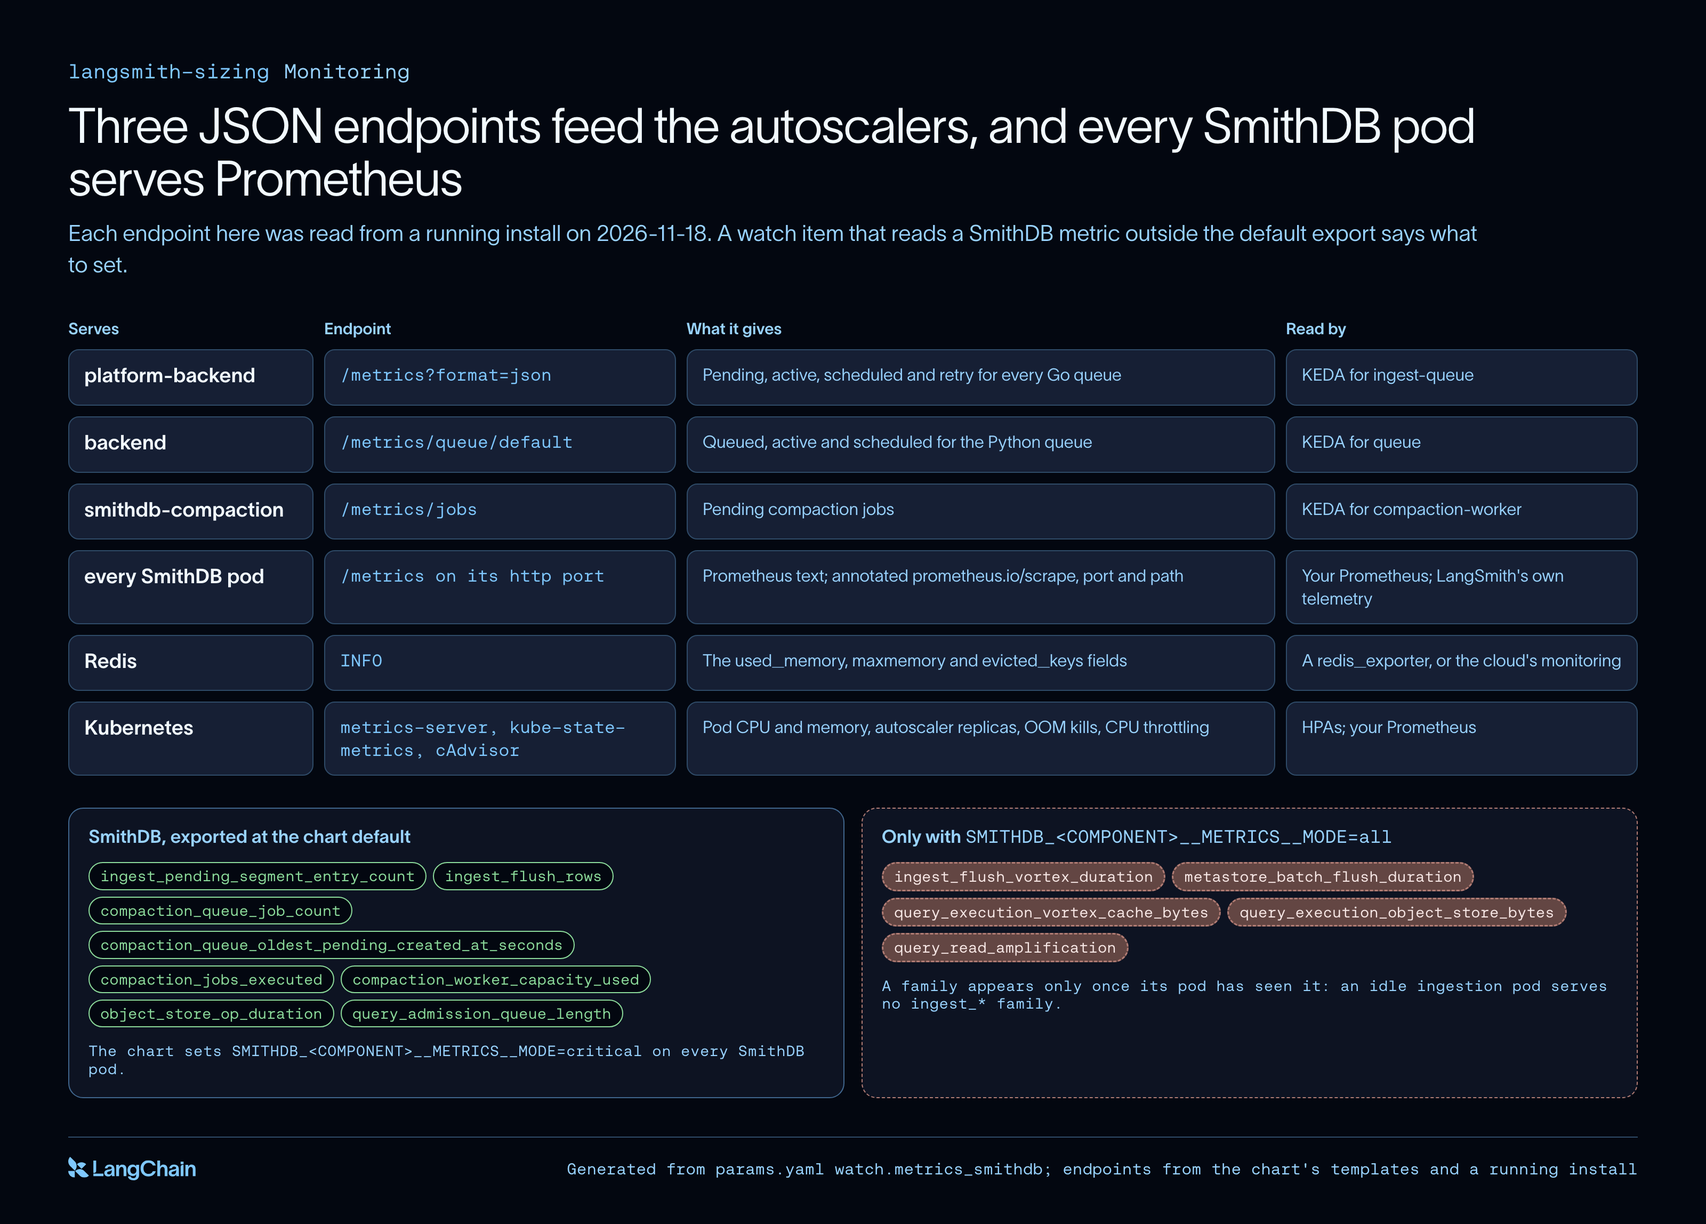
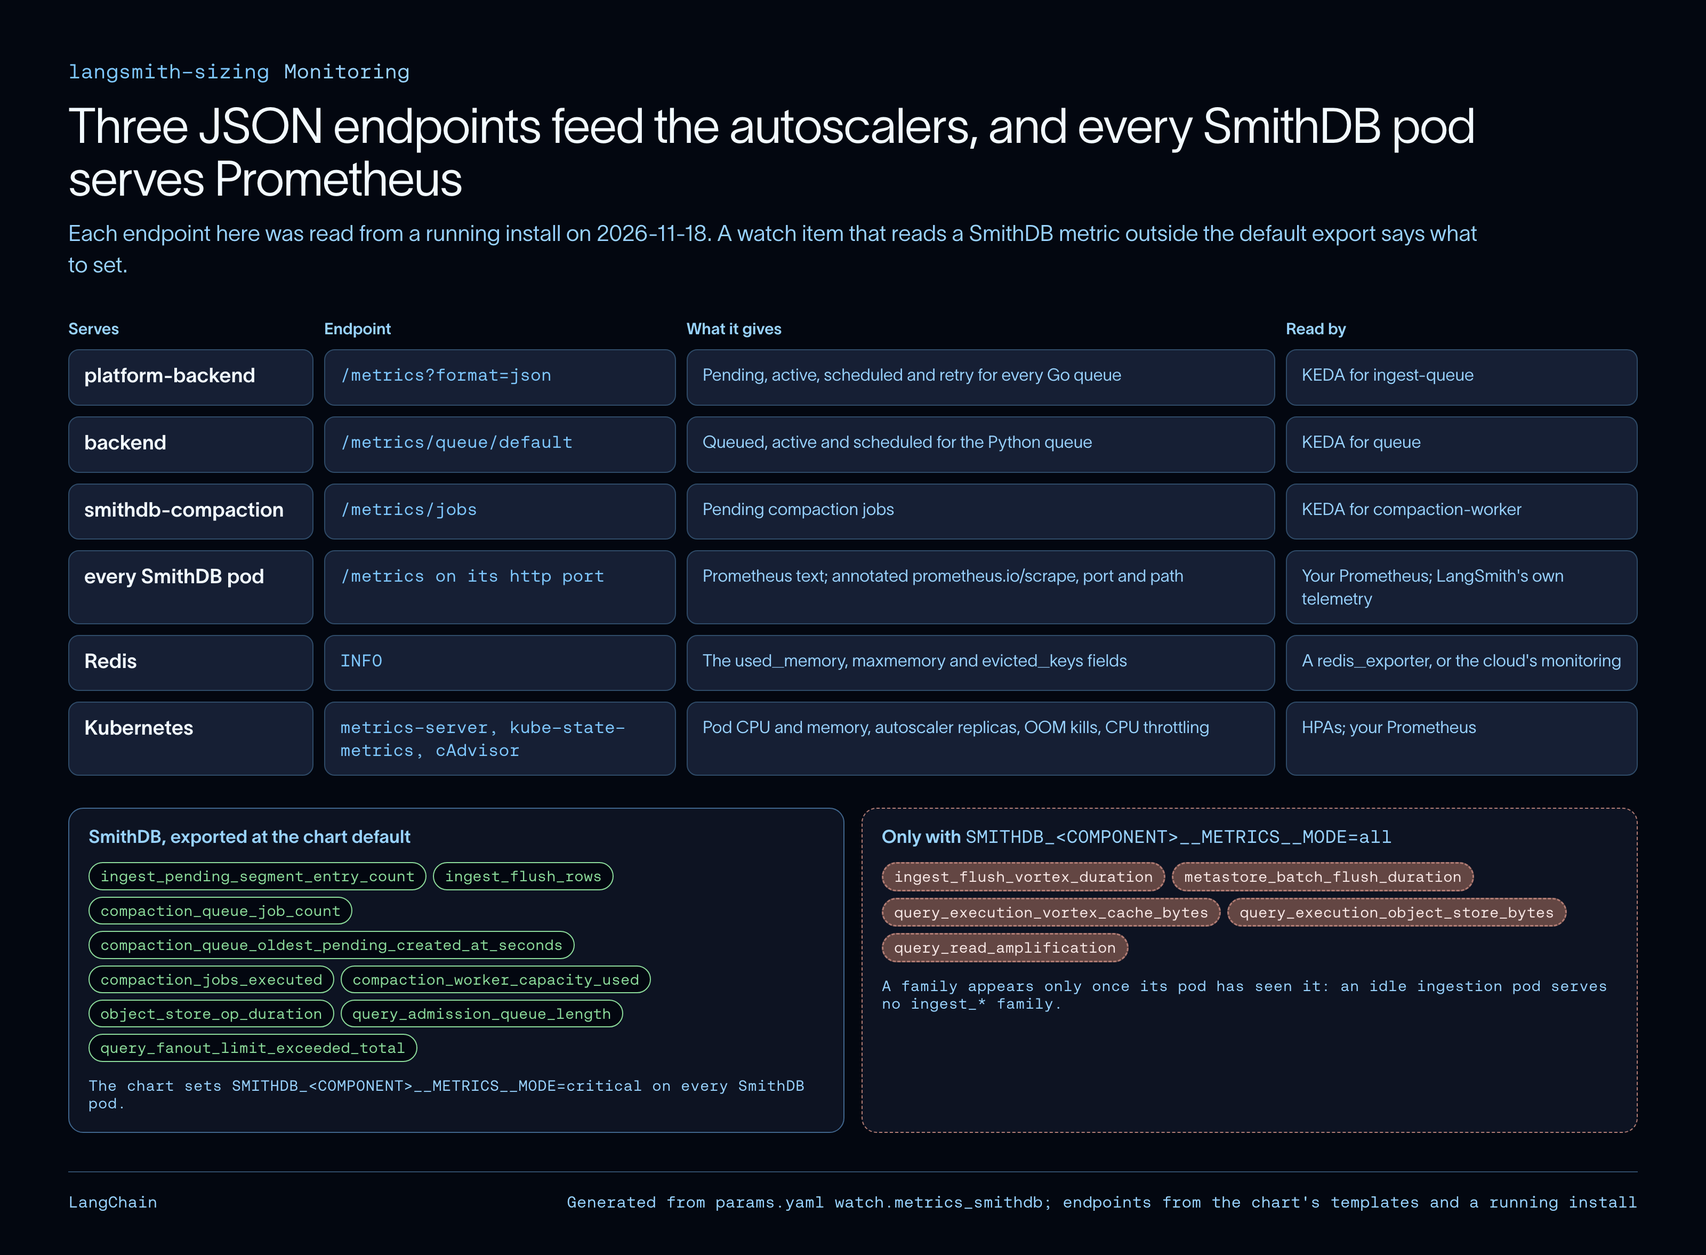
feat(load-test, sizing, lite): name SmithDB's fanout refusals, end a run whose endpoint is gone, read CPU through Prometheus
Three gaps the soaks on magus showed, in the measurement, not the box.

The step run stopped at 1x (25 runs/s) with every run stored and the
backlog flat, because 17 of 213 feedback-filtered run-stats reads were
refused with 429, "Too many concurrent partitions": SmithDB refusing a
query that would scan more than its 10,000-partition limit. Nothing on
the watch list could say so. query_fanout_limit_exceeded_total, in
SmithDB's critical export list, is now the watch item query-fanout,
alarming on any refusal and read as its rise over the run; operate.md and
the metrics figure are regenerated from params.yaml.

When the laptop slept its tunnel closed, and the SDK retried every upload
for the rest of the run, printing each payload. The run now probes the
endpoint with a TCP connect every 10 s and ends after three misses in a
row with one line. Tests: a closed port ends a 30 s run in under 5 s, an
open one lets it finish.

Every soak's cores table was empty: CPU came from each node's kubelet
(nodes/proxy), which Lite's operator kubeconfig cannot reach by design.
--prometheus NS/SERVICE:PORT reads the same cAdvisor counters from that
Prometheus's /federate through services/proxy, which the operator has in
the install's namespaces; Lite names its own when observability is on.
Test: CPU read through federate with no kubelet call.

make check in utils/langsmith-sizing, utils/langsmith-load-test and
modules/lite: every gate.

diff --git a/utils/langsmith-load-test/src/loadtest/cluster.py b/utils/langsmith-load-test/src/loadtest/cluster.py
@@ -27,6 +27,7 @@ from collections.abc import Callable, Iterable, Sequence
 from concurrent.futures import ThreadPoolExecutor
 from pathlib import Path
 from typing import Any
+from urllib.parse import urlencode
 
 from langsmith_sizing import params as sizing_params
 
@@ -130,6 +131,17 @@ def parse_redis_info(text: str) -> dict[str, float]:
 CPU_FIELD = {CPU: "seconds", THROTTLED: "throttled", PERIODS: "periods"}
 
 
+def prometheus_federate(where: str, namespace: str) -> str:
+    """The API path to a Prometheus's /federate for one namespace's cAdvisor CPU series. It serves the
+    counters cAdvisor does, in the same text, through services/proxy: a kubeconfig without nodes/proxy
+    (Lite's operator, by design) read no CPU at all, and every soak's cores table was empty (magus,
+    2026-11-25)."""
+    ns, _, service = where.partition("/")
+    names = "|".join(CPU_FIELD)
+    query = urlencode({"match[]": f'{{namespace="{namespace}",__name__=~"{names}"}}'})
+    return f"/api/v1/namespaces/{ns}/services/{service}/proxy/federate?{query}"
+
+
 def _add_cpu(out: dict[str, dict[str, Any]], text: str, marker: str, owners: dict[str, str]) -> None:
     """Each of the namespace's containers' CPU counters from one node's cAdvisor, keyed pod/container."""
     # Filter before parsing: a node's cAdvisor holds every namespace's containers.
@@ -144,8 +156,8 @@ class Collector:
     """Samples the install on a thread until stopped; each sample is also appended to series_path."""
 
     def __init__(self, kube: Kube, namespace: str, release: str, interval_seconds: float, series_path: Path | None = None,
-                 clock: Callable[[], float] = time.time, data_namespace: str | None = None) -> None:
-        self.kube, self.ns, self.release = kube, namespace, release
+                 clock: Callable[[], float] = time.time, data_namespace: str | None = None, prometheus: str | None = None) -> None:
+        self.kube, self.ns, self.release, self.prometheus = kube, namespace, release, prometheus
         self.data_ns = data_namespace or namespace
         self.interval = interval_seconds
         self.series_path = series_path
@@ -293,8 +305,14 @@ class Collector:
 
     def _cpu(self, sample: Sample, pods: list[dict[str, Any]]) -> None:
         owners = {p["name"]: p["workload"] for p in pods}
-        nodes = sorted({p["node"] for p in pods if p["node"]})
         marker = f'namespace="{self.ns}"'
+        if self.prometheus:
+            text = self.kube(["get", "--raw", prometheus_federate(self.prometheus, self.ns)])
+            if text is None:
+                sample["unread"].append(f"CPU from Prometheus {self.prometheus}")
+            _add_cpu(sample["cpu"], text or "", marker, owners)
+            return
+        nodes = sorted({p["node"] for p in pods if p["node"]})
         def read(node: str) -> str | None:
             return self.kube(["get", "--raw", f"/api/v1/nodes/{node}/proxy/metrics/cadvisor"])
         with ThreadPoolExecutor(max_workers=min(16, len(nodes) or 1)) as pool:
@@ -394,9 +412,15 @@ def flushed_rows(sample: Sample) -> float | None:
     before any flush, and a delta over the samples that had the series measured 0 of 100 rows
     (2026-11-25).
     """
+    return smithdb_counter(sample, "ingest_flush_rows_sum")
+
+
+def smithdb_counter(sample: Sample, family: str) -> float | None:
+    """A SmithDB counter's value, 0 when SmithDB was read without it (a series appears at its first
+    increment), None when SmithDB was not read."""
     if not sample["smithdb"] or any(u.startswith("smithdb metrics") for u in sample["unread"]):
         return None
-    return family_sum(sample["smithdb"], "ingest_flush_rows_sum") or 0.0
+    return family_sum(sample["smithdb"], family) or 0.0
 
 
 def _delta(points: list[tuple[float, float]]) -> float | None:
@@ -544,6 +568,13 @@ def _throttling(samples: Sequence[Sample], window: Sequence[Sample], workload: s
     return _throttled_share(window, workload)
 
 
+def _increase(family: str, unit: str) -> Reader:
+    def read(samples: Sequence[Sample], window: Sequence[Sample], workload: str) -> dict[str, Any] | None:
+        during = _delta(_values(samples, lambda s: smithdb_counter(s, family)))
+        return None if during is None else {"during_run": during, "unit": unit}
+    return read
+
+
 # How each watched metric is read from the samples; a SmithDB gauge not named here is read as peak and end.
 READERS: dict[str, Reader] = {
     "used_memory": _redis_memory,
@@ -562,6 +593,7 @@ READERS: dict[str, Reader] = {
     "pg_stat_activity": _postgres_connections,
     "kube_pod_container_status_last_terminated_reason": _oom,
     THROTTLED: _throttling,
+    "query_fanout_limit_exceeded_total": _increase("query_fanout_limit_exceeded_total", "queries refused for scan-partition fanout"),
 }
 
 

diff --git a/utils/langsmith-load-test/src/loadtest/runner.py b/utils/langsmith-load-test/src/loadtest/runner.py
@@ -12,6 +12,7 @@ from collections.abc import Callable
 from contextlib import suppress
 from dataclasses import dataclass, field
 from typing import Any
+from urllib.parse import urlsplit
 from uuid import UUID, uuid4
 
 from langsmith import Client
@@ -28,6 +29,15 @@ from loadtest.stats import summarize
 from loadtest.verify import Stored, settle
 
 READ_BATCH_WINDOW = datetime.timedelta(minutes=1)
+# The endpoint is probed with a TCP connect this often, and the run ends after this many misses in a
+# row: when a laptop slept, its tunnel to the install closed and the SDK retried every upload for the
+# rest of the run, printing each payload (magus, 2026-11-25).
+ENDPOINT_PROBE_SECONDS = 10.0
+ENDPOINT_GONE_AFTER = 3
+
+
+class EndpointGone(RuntimeError):
+    """The install's endpoint stopped taking connections during the run."""
 HIGH_CARDINALITY_EVERY = 5
 LOW_CARDINALITY_VALUES = 8
 
@@ -157,6 +167,7 @@ class _Run:
         self.pool = TracePool(settings.read_min_age_seconds)
         self.lag = LagTracker(settings.lag_deadline_seconds)
         self.lag_sampled = self.lag_poll_errors = 0
+        self.gone: str | None = None
         self.pick_project = random.Random(settings.data_seed)
         self.reader: Reader | None = None
         self.feedback = FeedbackSender(client, profile.feedback_per_trace, self.counts) if client is not None else None
@@ -257,6 +268,24 @@ class _Run:
         progress_task = asyncio.create_task(self.report_progress()) if self.on_progress is not None and s.progress_seconds > 0 else None
         return poll_task, progress_task
 
+    async def _watch_endpoint(self, main: asyncio.Task[Any]) -> None:
+        assert self.client is not None
+        url = urlsplit(self.client.api_url)
+        host, port = url.hostname or "localhost", url.port or (443 if url.scheme == "https" else 80)
+        misses = 0
+        while True:
+            await asyncio.sleep(ENDPOINT_PROBE_SECONDS)
+            try:
+                _, writer = await asyncio.wait_for(asyncio.open_connection(host, port), ENDPOINT_PROBE_SECONDS / 2)
+                writer.close()
+                misses = 0
+            except (OSError, TimeoutError):
+                misses += 1
+                if misses >= ENDPOINT_GONE_AFTER:
+                    self.gone = f"{host}:{port} took no connection {misses} times in a row: the tunnel or the install is gone"
+                    main.cancel()
+                    return
+
     async def go(self) -> LoadOutcome:
         s, loop = self.settings, asyncio.get_running_loop()
         if self.client is not None:
@@ -270,6 +299,8 @@ class _Run:
         self.deadline = self.origin + self.total_seconds
         finished = asyncio.Event()
         poll_task, progress_task = self._tasks(finished)
+        main = asyncio.current_task()
+        watch_task = asyncio.create_task(self._watch_endpoint(main)) if self.client is not None and self.client.api_url and main else None
         read_dropped, read_lags = 0, []
         try:
             outcomes = await asyncio.gather(*self._loads())
@@ -280,8 +311,12 @@ class _Run:
             if self.reader is not None and s.reads_per_second:
                 read_dropped, read_lags = outcomes[-1].dropped, outcomes[-1].lags_seconds
             stored = await self._settle(finished, poll_task)
+        except asyncio.CancelledError:
+            if self.gone is None:
+                raise
+            raise EndpointGone(self.gone) from None
         finally:
-            await self._close(finished, (progress_task, poll_task))
+            await self._close(finished, (progress_task, poll_task, watch_task))
         return LoadOutcome(
             self.test_id, self.started_at, datetime.datetime.now(datetime.UTC), self.counts, self.reader, read_dropped, read_lags,
             self.lag, self.lag_poll_errors, self.lag_sampled, stored,

diff --git a/utils/langsmith-load-test/src/loadtest/cli.py b/utils/langsmith-load-test/src/loadtest/cli.py
@@ -84,6 +84,7 @@ def build_parser(defaults: LoadSettings) -> argparse.ArgumentParser:
     cluster.add_argument("--data-namespace", help="the namespace Redis and Postgres run in, when not LangSmith's (the datastores chart can run them apart)")
     cluster.add_argument("--release", default="langsmith", help="the Helm release name, the prefix of every workload's name")
     cluster.add_argument("--kube-context", help="the kubectl context; the current one when omitted")
+    cluster.add_argument("--prometheus", metavar="NS/SERVICE:PORT", help="read CPU from this Prometheus's cAdvisor series instead of each node's kubelet, for a kubeconfig without nodes/proxy")
     cluster.add_argument("--sample-seconds", type=float, default=15, help="seconds between samples; raise it on a cluster of hundreds of nodes, where each sample reads every node's cAdvisor")
     output = parser.add_argument_group("output")
     output.add_argument("--results", type=Path, help="write the langsmith-load-results/1 JSON here")
@@ -94,7 +95,7 @@ def build_parser(defaults: LoadSettings) -> argparse.ArgumentParser:
     return parser
 
 
-CLUSTER_OPTIONS = ("namespace", "data_namespace", "release", "kube_context", "sample_seconds")
+CLUSTER_OPTIONS = ("namespace", "data_namespace", "release", "kube_context", "sample_seconds", "prometheus")
 
 
 def cluster_options(arguments: dict[str, Any]) -> dict[str, Any]:
@@ -265,7 +266,7 @@ def _collector(watch: dict[str, Any], results_path: Path | None) -> cluster.Coll
         series.unlink(missing_ok=True)
     kube = cluster.kubectl(watch["kube_context"], timeout_seconds=max(10.0, watch["sample_seconds"]))
     ui.note(f"reading the install's metrics in namespace {watch['namespace']} every {watch['sample_seconds']:g} s" + (f" into {series}" if series else ""))
-    return cluster.Collector(kube, watch["namespace"], watch["release"], watch["sample_seconds"], series, data_namespace=watch["data_namespace"])
+    return cluster.Collector(kube, watch["namespace"], watch["release"], watch["sample_seconds"], series, data_namespace=watch["data_namespace"], prometheus=watch["prometheus"])
 
 
 def _cluster(samples: list[dict[str, Any]], watch: dict[str, Any], outcome: Any, settings: LoadSettings, profile: Profile) -> tuple[dict[str, Any], dict[str, Any]]:

diff --git a/utils/langsmith-load-test/tests/test_runner.py b/utils/langsmith-load-test/tests/test_runner.py
@@ -2,15 +2,19 @@
 
 import dataclasses
 import json
+import socket
 import threading
+import time
 import unittest
+from unittest import mock
 from uuid import uuid4
 
 from fakes import FakeClient
+from loadtest import runner
 from loadtest.draw import Projects
 from loadtest.payloads.generator import KIB
 from loadtest.profile import from_document
-from loadtest.runner import LoadSettings, build_report, run_load_test
+from loadtest.runner import EndpointGone, LoadSettings, build_report, run_load_test
 from profiles import document
 
 
@@ -206,6 +210,30 @@ class VerifyThroughTheReportTest(unittest.IsolatedAsyncioTestCase):
         _, report = await run(client, run_limit=5, users=1, lag_sample=0)
         self.assertEqual(report["stored"]["missing_runs"], 2)
         self.assertFalse(report["passed"])
+
+
+
+class EndpointTest(unittest.IsolatedAsyncioTestCase):
+    async def test_a_run_ends_with_one_reason_when_its_endpoint_stops_taking_connections(self) -> None:
+        with socket.socket() as s:
+            s.bind(("127.0.0.1", 0))
+            port = s.getsockname()[1]
+        client = FakeClient()
+        client.api_url = f"http://127.0.0.1:{port}"
+        started = time.monotonic()
+        with mock.patch.object(runner, "ENDPOINT_PROBE_SECONDS", 0.02), self.assertRaisesRegex(EndpointGone, f"127.0.0.1:{port} took no connection 3 times"):
+            await run(client, users=1, run_limit=None, duration_seconds=30, pause_seconds=0.01)
+        self.assertLess(time.monotonic() - started, 5)
+
+    async def test_an_endpoint_that_answers_lets_the_run_finish(self) -> None:
+        with socket.socket() as listening:
+            listening.bind(("127.0.0.1", 0))
+            listening.listen()
+            client = FakeClient()
+            client.api_url = f"http://127.0.0.1:{listening.getsockname()[1]}"
+            with mock.patch.object(runner, "ENDPOINT_PROBE_SECONDS", 0.02):
+                _, report = await run(client, run_limit=5, users=1, lag_sample=0)
+        self.assertEqual(report["stored"]["missing_runs"], 0)
 
 
 if __name__ == "__main__":

diff --git a/utils/langsmith-load-test/tests/fake_cluster.py b/utils/langsmith-load-test/tests/fake_cluster.py
@@ -48,7 +48,9 @@ class FakeCluster:
             ("get pods", lambda: self._pods(args[args.index("-n") + 1])), ("get services", self._services), ("get hpa", self._hpa),
             ("platform-backend:1984/proxy/metrics?format=json", self._queues), ("backend:1984/proxy/metrics/queue", lambda: json.dumps({"queued": 0})),
             ("smithdb-compaction:8070/proxy/metrics/jobs", lambda: json.dumps({"pending": BACKLOG[min(self.n, len(BACKLOG) - 1)] // 10})),
-            ("/proxy/metrics/cadvisor", self._cadvisor), ("redis-cli", self._redis), ("psql", lambda: f"{12 + self.n}|100\n"),
+            ("/proxy/metrics/cadvisor", self._cadvisor),
+            # Prometheus's federate serves cAdvisor's series, each value followed by a timestamp.
+            ("/proxy/federate?", lambda: "\n".join(f"{line} 1732500000000" for line in self._cadvisor().splitlines() if line and not line.startswith("#"))), ("redis-cli", self._redis), ("psql", lambda: f"{12 + self.n}|100\n"),
             ("platform-backend:1984/proxy/metrics", self._queue_latency), ("logs", lambda: "x Skipping run as it has expired\n" * 2 + "ok\n"),
             ("/proxy/metrics", self._smithdb),
         ):

diff --git a/utils/langsmith-load-test/tests/test_cluster.py b/utils/langsmith-load-test/tests/test_cluster.py
@@ -106,6 +106,15 @@ class SummaryTest(unittest.TestCase):
             time.sleep(0.01)
         self.assertEqual(len(collector.stop()), 2)
 
+    def test_cpu_comes_from_a_named_prometheus_without_touching_the_kubelet(self) -> None:
+        fake = FakeCluster()
+        s = cluster.Collector(fake, NS, RELEASE, STEP_SECONDS, clock=lambda: fake.t, prometheus="obs/prometheus-server:80").sample()
+        self.assertEqual({e["workload"] for e in s["cpu"].values()}, {"ingest-queue", "platform-backend", "smithdb-ingestion"})
+        self.assertFalse(any("/metrics/cadvisor" in " ".join(c) for c in fake.calls))
+        path = next(" ".join(c) for c in fake.calls if "/federate?" in " ".join(c))
+        self.assertIn("/api/v1/namespaces/obs/services/prometheus-server:80/proxy/federate?match%5B%5D=", path)
+        self.assertEqual(s["unread"], [])
+
     def test_runs_skipped_as_expired_are_counted_from_the_logs_when_sampling_stops(self) -> None:
         fake = FakeCluster()
         collector = cluster.Collector(fake, NS, RELEASE, STEP_SECONDS, clock=lambda: fake.t)

diff --git a/modules/lite/lib/prove.py b/modules/lite/lib/prove.py
@@ -94,6 +94,7 @@ def main() -> int:
     p.add_argument("--duration", type=int, default=900)
     p.add_argument("--ramp", type=int, default=120)
     p.add_argument("--step", action="store_true")
+    p.add_argument("--prometheus", help="NS/SERVICE:PORT of the install's Prometheus, for CPU")
     a = p.parse_args()
     Path(a.out).mkdir(parents=True, exist_ok=True)
 
@@ -106,7 +107,7 @@ def main() -> int:
     env = {**os.environ, "LANGSMITH_TRACING": "true", "LANGSMITH_ENDPOINT": a.endpoint.rstrip("/") + "/api/v1", "LANGSMITH_API_KEY": key,
            "LANGSMITH_PROJECT": f"lite-{a.mode}"}
     env.pop("LANGSMITH_WORKSPACE_ID", None)
-    where = ["--namespace", a.namespace, "--data-namespace", a.data_namespace]
+    where = ["--namespace", a.namespace, "--data-namespace", a.data_namespace, *(["--prometheus", a.prometheus] if a.prometheus else [])]
     try:
         if a.mode == "verify":
             return load_test(a, env, "load-test-verify", *where, "--results", "verify.json")

diff --git a/modules/lite/lib/tests/test_prove.py b/modules/lite/lib/tests/test_prove.py
@@ -105,6 +105,10 @@ class Driver(unittest.TestCase):
         code, ran = self.run_main("soak", "--runs-per-second", "25", writes=False)
         self.assertEqual((code, [r[0] for r in ran]), (2, ["load-test"]))
 
+    def test_the_installs_prometheus_is_named_for_cpu(self) -> None:
+        _, ran = self.run_main("verify", "--prometheus", "a-observe/prometheus-server:80")
+        self.assertEqual(ran[0][ran[0].index("--prometheus") + 1], "a-observe/prometheus-server:80")
+
     def test_step_runs_the_step_command(self) -> None:
         _, ran = self.run_main("soak", "--runs-per-second", "25", "--step")
         self.assertEqual([r[0] for r in ran], ["load-test-step"])

diff --git a/utils/langsmith-load-test/tests/fakes.py b/utils/langsmith-load-test/tests/fakes.py
@@ -32,6 +32,7 @@ class FakeClient(Client):
         self.runs_resource = SimpleNamespace(query=self._runs_query)
         self.traces_resource = SimpleNamespace(query=self._unused, list_runs=self._unused)
         self.info_reads = 0
+        self.api_url = ""
 
     @property  # type: ignore[override]
     def runs(self) -> Any:

diff --git a/utils/langsmith-sizing/docs/operate.md b/utils/langsmith-sizing/docs/operate.md
@@ -229,6 +229,7 @@ one item per autoscaler, at its ceiling). An item for another SmithDB topology i
 | `compaction-completions` | `compaction_jobs_executed` | each smithdb pod /metrics, by job kind | observe | If pending jobs grow while completions stay flat, read the compaction workers' logs before adding workers. |
 | `metastore-flush` | `metastore_batch_flush_duration` | each smithdb-ingestion pod /metrics. Needs SMITHDB_INGESTION__METRICS__MODE=all in smithdb.ingestion.deployment.extraEnv: the chart exports the critical set only | observe | Size the metastore (smithdb.metastore) and check its connections. |
 | `admission-queue` | `query_admission_queue_length` | each smithdb-query and smithdb-stats-query pod /metrics | 0 (queued queries, sustained) | Add query pods only if the cache hit rate allows; otherwise raise the tier or the per-operation memory limit. |
+| `query-fanout` | `query_fanout_limit_exceeded_total` | each smithdb pod /metrics | 0 (queries refused, any) | Read compaction first: many small uncompacted segments raise every scan's partitions. Then narrow the query's time range, or raise the tier. |
 | `object-store-latency` | `object_store_op_duration` | each smithdb pod /metrics | observe | Check the object store's request rate limits. |
 | `autoscaler-at-ceiling` | `kube_horizontalpodautoscaler_status_current_replicas` | kube-state-metrics, per HorizontalPodAutoscaler | the plan's ceiling, per autoscaler | Raise the ceiling after reading the workload's own item. |
 | `oom-killed` | `kube_pod_container_status_last_terminated_reason` | kube-state-metrics, reason="OOMKilled", per container | 0 (OOM kills, any) | Read the workload's own item first; then raise its memory, scale it out, or for SmithDB raise the tier. |
